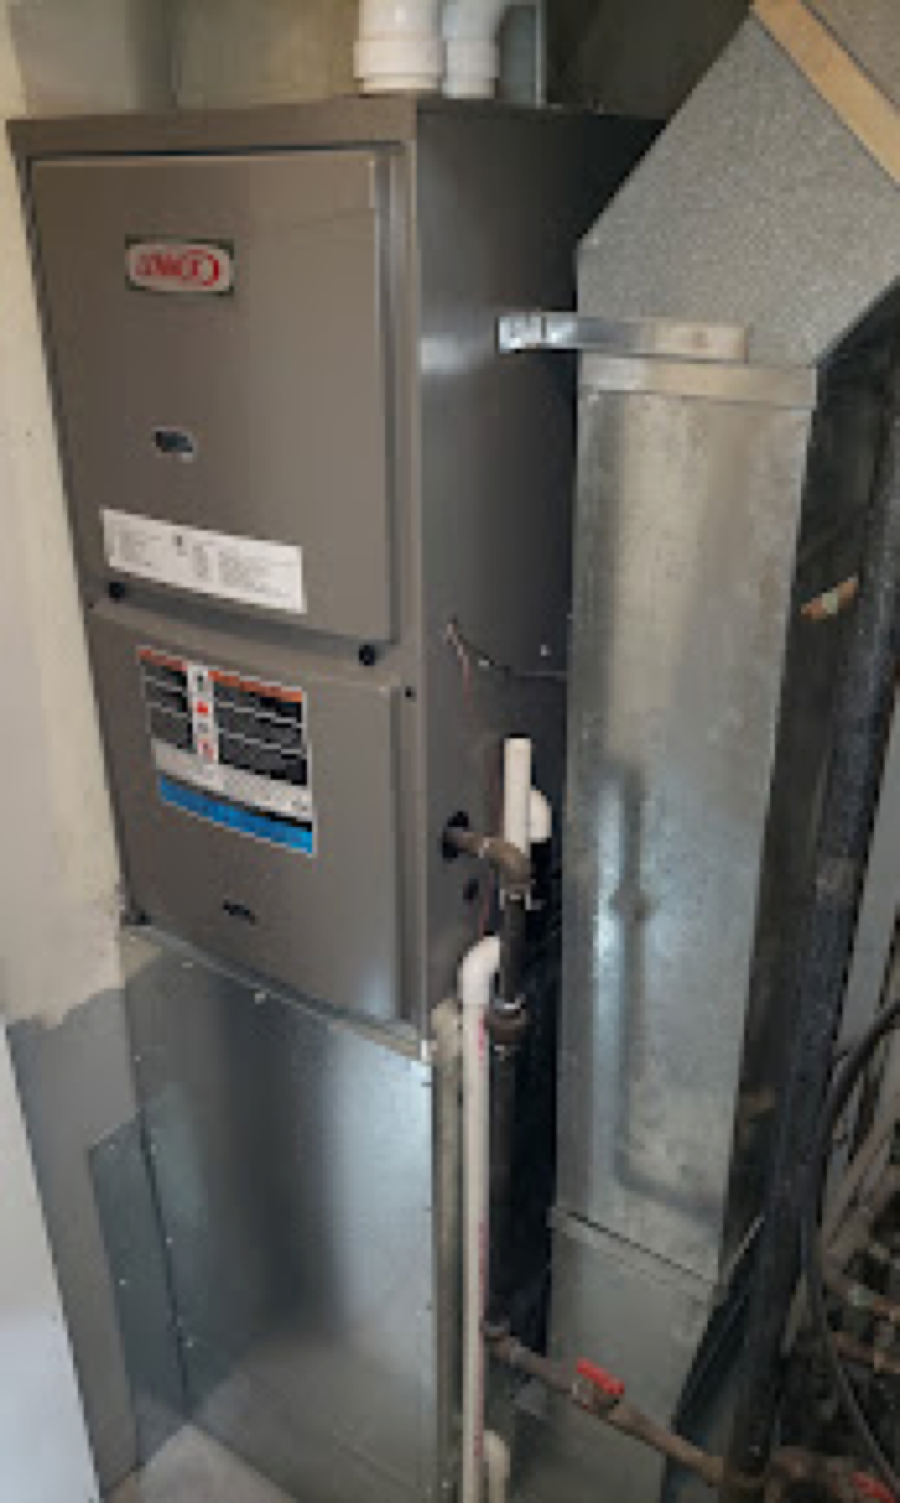
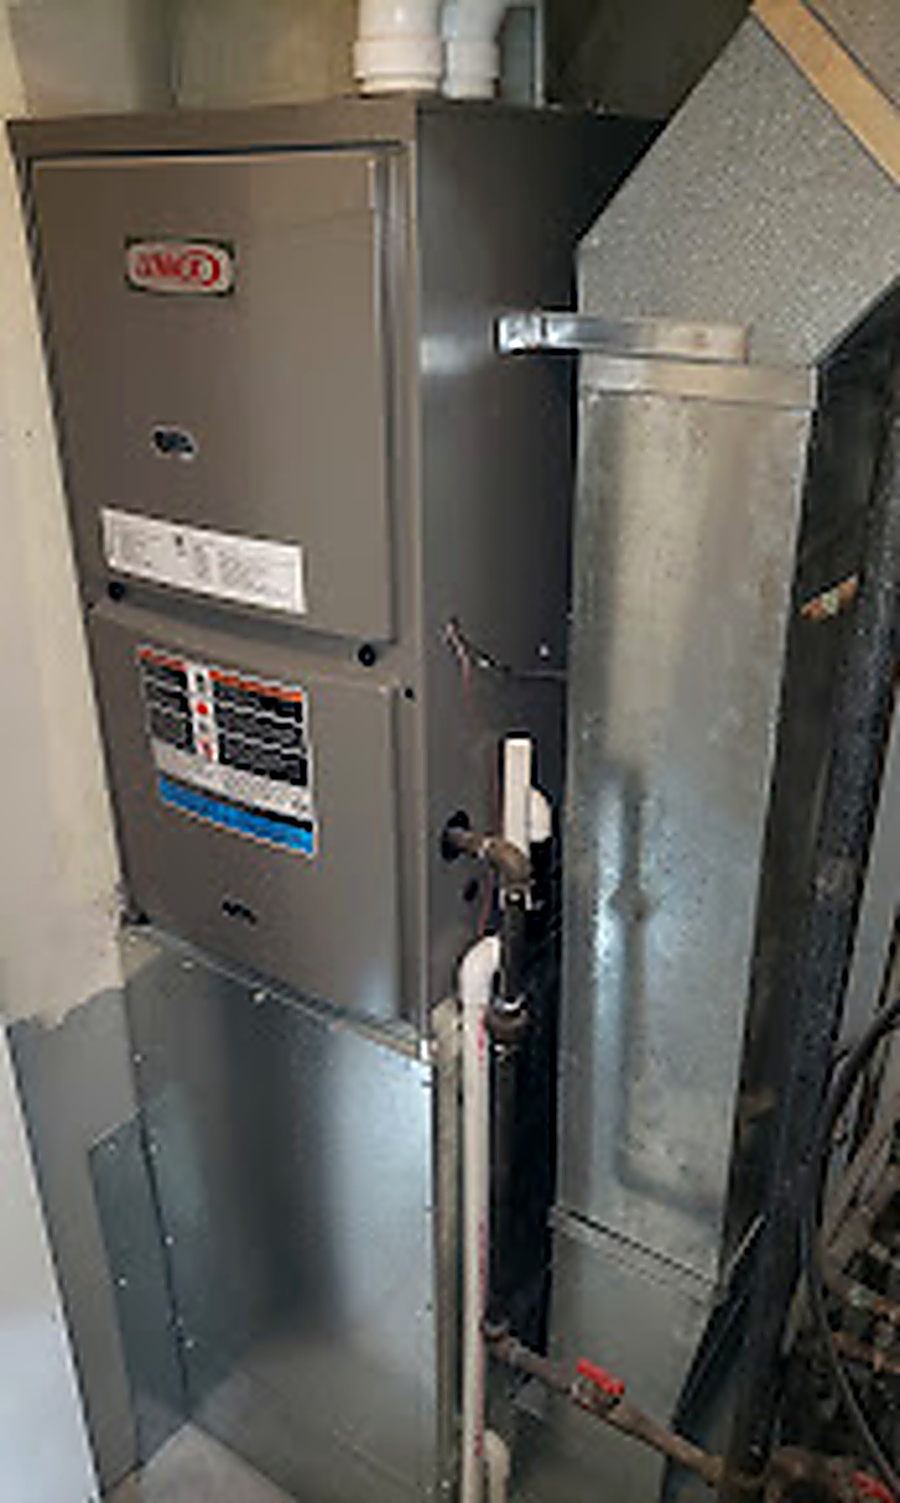
Sharpen hero slideshow photos and drop the blur treatment
Reprocessed from the raw 173px originals with Pillow: Lanczos upscale
plus an unsharp mask to restore edge definition, instead of the
plain sips resize. Crisp enough now to remove the CSS blur/heavier
scrim entirely.

diff --git a/styles.css b/styles.css
@@ -210,8 +210,7 @@ a { color: inherit; text-decoration: none; }
   background-size: cover;
   background-position: center;
   opacity: 0;
-  transform: scale(1.04);
-  filter: blur(2px) saturate(1.1);
+  filter: saturate(1.1);
   transition: opacity 1.8s ease;
 }
 .hero-slide.active { opacity: 1; }

diff --git a/README.md b/README.md
@@ -73,13 +73,15 @@ moving the correct files over to `r3-electric-hvac/assets/work/`.
 **Image quality**: the pasted photos came through at thumbnail resolution (173px wide) rather than
 their original size — no full-res originals were found anywhere on disk (checked Downloads,
 Desktop, and system temp/cache dirs). Raw 173px files are kept in `assets/work/originals-lowres/`
-for reference. The in-use files were upscaled with `sips --resampleWidth 900` (smooth resampling,
-no real detail added — just removes blockiness) and the CSS pairs that with a light `blur(2px)` +
-`scale(1.04)` and a slightly darker scrim (`.hero-slide`/`.hero-scrim` in styles.css) so the
-background reads as an intentionally soft, moody photo rather than a pixelated one. This is the
-practical ceiling without genuine full-resolution source photos — if Kyle finds the originals
-later (e.g. on his phone's camera roll), drop them into `assets/work/` with the same filenames for
-a real sharpness upgrade.
+for reference. The in-use files are a Python/Pillow reprocess of those originals: Lanczos upscale
+to 900px wide, an unsharp mask (radius 2, 160%, threshold 2) to bring back edge definition, plus a
+small contrast/saturation boost — noticeably crisper than a plain resize, since sharpening restores
+perceived detail that a straight upscale (tried first, via `sips --resampleWidth`) can't. No CSS
+blur on the hero background as a result (`.hero-slide` in styles.css just has a `saturate(1.1)`
+filter). This is the practical ceiling without genuine full-resolution source photos — sharpening
+can't invent detail that isn't there, it only makes the existing 173px worth of information look
+as defined as possible. If Kyle finds the real originals later (e.g. his phone's camera roll), drop
+them into `assets/work/` with the same filenames for a genuine sharpness upgrade.
 
 ## Contact form
 
